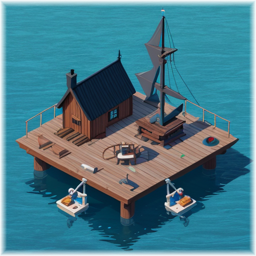
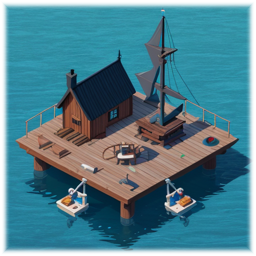
Feather shipyard sprite edges; reset artLoaded on sprite URL change
The shipyard PNG is fully opaque across its whole 256x256 canvas (dock +
building painted over a baked-in water square), so its hard geometric edge
showed against the backdrop's own sea corner. Apply a smoothstep alpha
falloff over the outer ~10px border (interior stays fully opaque) so the
edge blends instead of cutting sharply — regenerating the art as a true
transparent cutout is separately scoped and needs operator approval.

Also fix a latent bug flagged in the issue: SceneBuilding's `artLoaded`
state never reset when the resolved sprite URL changed (e.g. a theme-pack
swap), so a new sprite could render framed by the stale colored
placeholder, or a 404'ing swap could keep showing "loaded" styling.

Closes #490

Claude-Session: https://claude.ai/code/session_01Xf5Q9kUbjHgiwUostdj52a

Changed region(s): [[0.0, 0.0, 1.0, 1.0]]

diff --git a/apps/web/src/CityScene.tsx b/apps/web/src/CityScene.tsx
@@ -1,6 +1,6 @@
 import { BUILDINGS, FACTIONS, buildingDisplayName } from '@aop/content'
 import type { FactionId } from '@aop/shared'
-import { useState } from 'react'
+import { useEffect, useState } from 'react'
 import {
   buildingContentId,
   cityBackdropContentId,
@@ -101,6 +101,12 @@ function SceneBuilding({ id, slot, faction, onOpenBuilding }: SceneBuildingProps
   const [artLoaded, setArtLoaded] = useState(false)
   const def = BUILDINGS[id]!
   const spriteUrl = resolveSpriteUrl(themeSpriteUrl, buildingContentId(id), def.spriteUrl)
+  // Theme-pack swaps can resolve a different sprite for the same building; without this
+  // the stale `artLoaded` from the previous URL would keep showing new art before it has
+  // actually loaded (or hide the placeholder for art that 404s).
+  useEffect(() => {
+    setArtLoaded(false)
+  }, [spriteUrl])
   const towerUrl =
     id === 'citadel'
       ? resolveSpriteUrl(